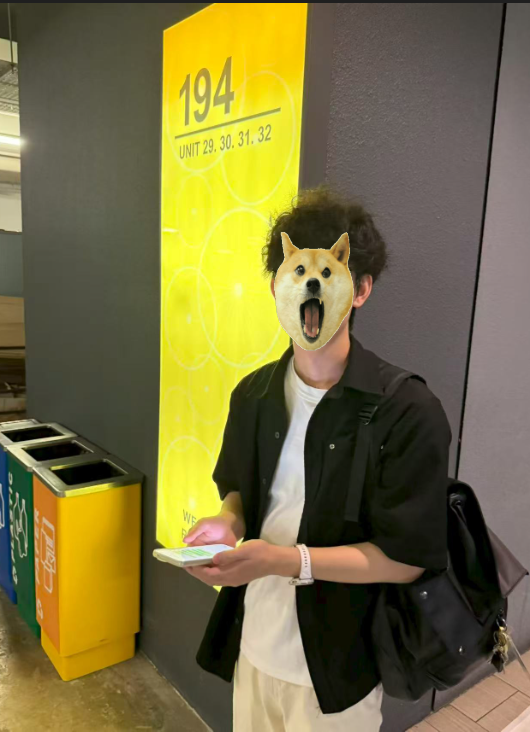
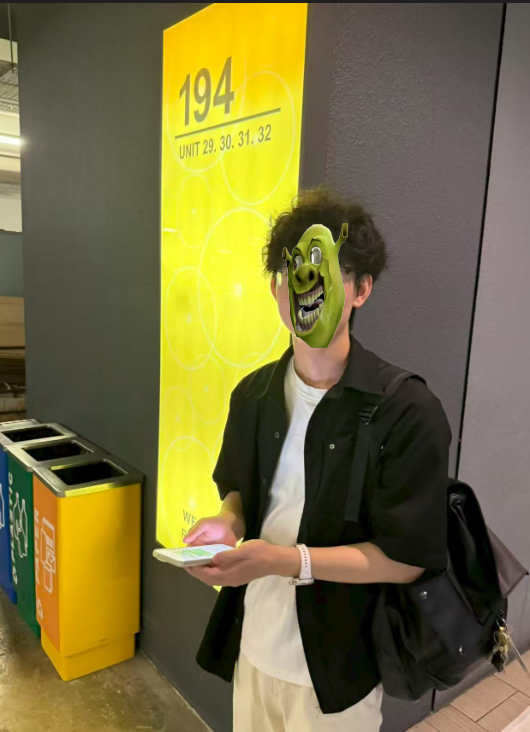
deep detection mode

Changed region(s): [[0.5132, 0.3005, 0.6642, 0.4809]]

diff --git a/face_anonymizer_gui_modern.py b/face_anonymizer_gui_modern.py
@@ -96,7 +96,8 @@ class ModernMultiFunctionGUI:
         self.keep_largest = tk.BooleanVar()
         self.interactive = tk.BooleanVar()
         self.model = None
-        
+        self.detect_mode = tk.StringVar(value="fast")   # fast / deep
+
         # Speech to Text variables
         self.recording = False
         self.audio_frames = []
@@ -239,6 +240,34 @@ class ModernMultiFunctionGUI:
             )
             radio.grid(row=0, column=i, padx=20, pady=5, sticky="w")
         
+        # Detection mode section (Insert this after Anonymization Mode section)
+        det_frame = ctk.CTkFrame(main_frame, corner_radius=15)
+        det_frame.pack(fill="x", pady=(0, 20))
+        
+        ctk.CTkLabel(
+            det_frame,
+            text="🧠 Detection Mode",
+            font=ctk.CTkFont(size=16, weight="bold")
+        ).pack(pady=(15, 10))
+        
+        det_row = ctk.CTkFrame(det_frame, fg_color="transparent")
+        det_row.pack(fill="x", padx=20, pady=(0, 15))
+        
+        ctk.CTkRadioButton(
+            det_row,
+            text="⚡ Fast detection ",
+            variable=self.detect_mode,
+            value="fast",
+            font=ctk.CTkFont(size=12)
+        ).pack(side="left", padx=10)
+        
+        ctk.CTkRadioButton(
+            det_row,
+            text="🔎 Deep detection",
+            variable=self.detect_mode,
+            value="deep",
+            font=ctk.CTkFont(size=12)
+        ).pack(side="left", padx=10)
         # Detection threshold
         threshold_container = ctk.CTkFrame(mode_frame, fg_color="transparent")
         threshold_container.pack(fill="x", padx=20, pady=(0, 20))
@@ -868,41 +897,45 @@ class ModernMultiFunctionGUI:
             elif mode == "replace":
                 result = anonymize_synthetic(image, faces, self.synthetic_dir.get(), 
                                            self.random_faces.get(), self.keep_largest.get())
-            try:
-                from pathlib import Path
+            if self.detect_mode.get() == "deep":
+                try:
+                    print("start general_pic pipeline (DEEP mode)...")
+                    from pathlib import Path
 
-                # 以最终输出名为基准，复用文件名与扩展名
-                out_path = Path(self.output_path.get())
-                name = out_path.stem
-                ext = out_path.suffix.lower() if out_path.suffix else ".png"  
+                    # 以最终输出名为基准，复用文件名与扩展名
+                    out_path = Path(self.output_path.get())
+                    name = out_path.stem
+                    ext = out_path.suffix.lower() if out_path.suffix else ".png"  
 
-                gp_input  = Path(GENERAL_PIC_DIR) / "inputs"
-                gp_output = Path(GENERAL_PIC_DIR) / "outputs"
-                gp_input.mkdir(parents=True, exist_ok=True)
-                gp_output.mkdir(parents=True, exist_ok=True)
+                    gp_input  = Path(GENERAL_PIC_DIR) / "inputs"
+                    gp_output = Path(GENERAL_PIC_DIR) / "outputs"
+                    gp_input.mkdir(parents=True, exist_ok=True)
+                    gp_output.mkdir(parents=True, exist_ok=True)
 
-                # 1) 暂存到 general_pic\input\{name}{ext}
-                gp_in_file = gp_input / f"{name}{ext}"
-                cv2.imwrite(str(gp_in_file), result)
+                    # 1) 暂存到 general_pic\input\{name}{ext}
+                    gp_in_file = gp_input / f"{name}{ext}"
+                    cv2.imwrite(str(gp_in_file), result)
 
-                # 2) 调 pipeline（PII 环境，cwd=general_pic）
-                _log = self._run_general_pic_pipeline(str(gp_in_file))
-                print("[general_pic/pipeline] done\n", _log)
-                final_path = gp_output / f"{name}_final{ext}"
-                processed = None
-                if final_path.exists():
-                    img = cv2.imread(str(final_path), cv2.IMREAD_UNCHANGED)
-                    if img is not None:
-                        processed = img
-    
-                # 找到就用 pipeline 结果覆盖 result；没找到就继续用原 result
-                if processed is not None:
-                    result = processed
-                else:
-                    print("[general_pic/pipeline] output not found, keep original result.")
+                    # 2) 调 pipeline（PII 环境，cwd=general_pic）
+                    _log = self._run_general_pic_pipeline(str(gp_in_file))
+                    print("[general_pic/pipeline] done\n", _log)
+                    final_path = gp_output / f"{name}_final{ext}"
+                    processed = None
+                    if final_path.exists():
+                        img = cv2.imread(str(final_path), cv2.IMREAD_UNCHANGED)
+                        if img is not None:
+                            processed = img
+        
+                    # 找到就用 pipeline 结果覆盖 result；没找到就继续用原 result
+                    if processed is not None:
+                        result = processed
+                    else:
+                        print("[general_pic/pipeline] output not found, keep original result.")
 
-            except Exception as pe:
-                print("[general_pic/pipeline] failed:", pe)
+                except Exception as pe:
+                    print("[general_pic/pipeline] failed:", pe)
+            else:
+                print("Detection mode = FAST → skip general_pic pipeline.")
             # Save result
             os.makedirs(os.path.dirname(self.output_path.get()), exist_ok=True)
             cv2.imwrite(self.output_path.get(), result)

diff --git a/general_pic/pipeline.py b/general_pic/pipeline.py
@@ -110,7 +110,7 @@ def main():
             boxes.append([x1,y1,x2,y2])
     print("bboxes to redact:", boxes)
     redacted = apply_mosaic_boxes(img, boxes, mosaic_block=18)
-    
+
     ext = INPUT_IMG.suffix.lower() if INPUT_IMG.suffix else ".png"
     redacted_path = OUT_DIR / f"{INPUT_IMG.stem}_redacted{ext}"
     save_image(redacted, redacted_path)
@@ -129,8 +129,6 @@ def main():
     final_img_path = OUT_DIR / f"{INPUT_IMG.stem}_final{ext}"
     save_image(image_final, final_img_path)
 
-
-# ===== 自测 =====
 if __name__ == "__main__":
     from pathlib import Path
     import shutil
